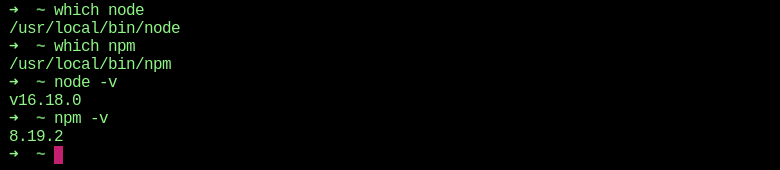
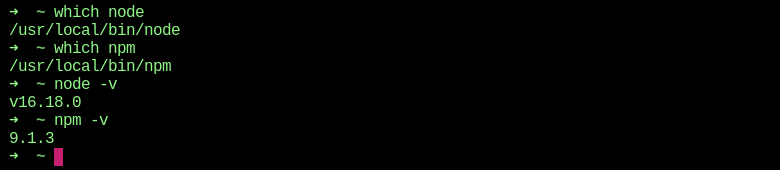
README: Linux updates

diff --git a/README.md b/README.md
@@ -228,6 +228,7 @@ On Linux (Debian/Ubuntu distributions), do the following.
 $ cd ~
 $ sudo apt-get install -y build-essential
 $ curl -fsSL https://deb.nodesource.com/setup_current.x | sudo -E bash - && sudo apt-get install -y nodejs
+$ sudo npm install -g npm
 $ which node
 $ which npm
 $ node -v
@@ -248,6 +249,13 @@ $ npm install typescript --save-dev
   <img width=auto height=auto src="screenshots/typescript-setup-01.png">
 </p>  
 
+On Linux.
+
+```shell
+$ sudo npm install ts-node --save-dev
+$ sudo npm install typescript -g
+$ sudo npm install typescript --save-dev
+```
 ---  
 
 ### Clone the SDK starter repository from GitHub  
